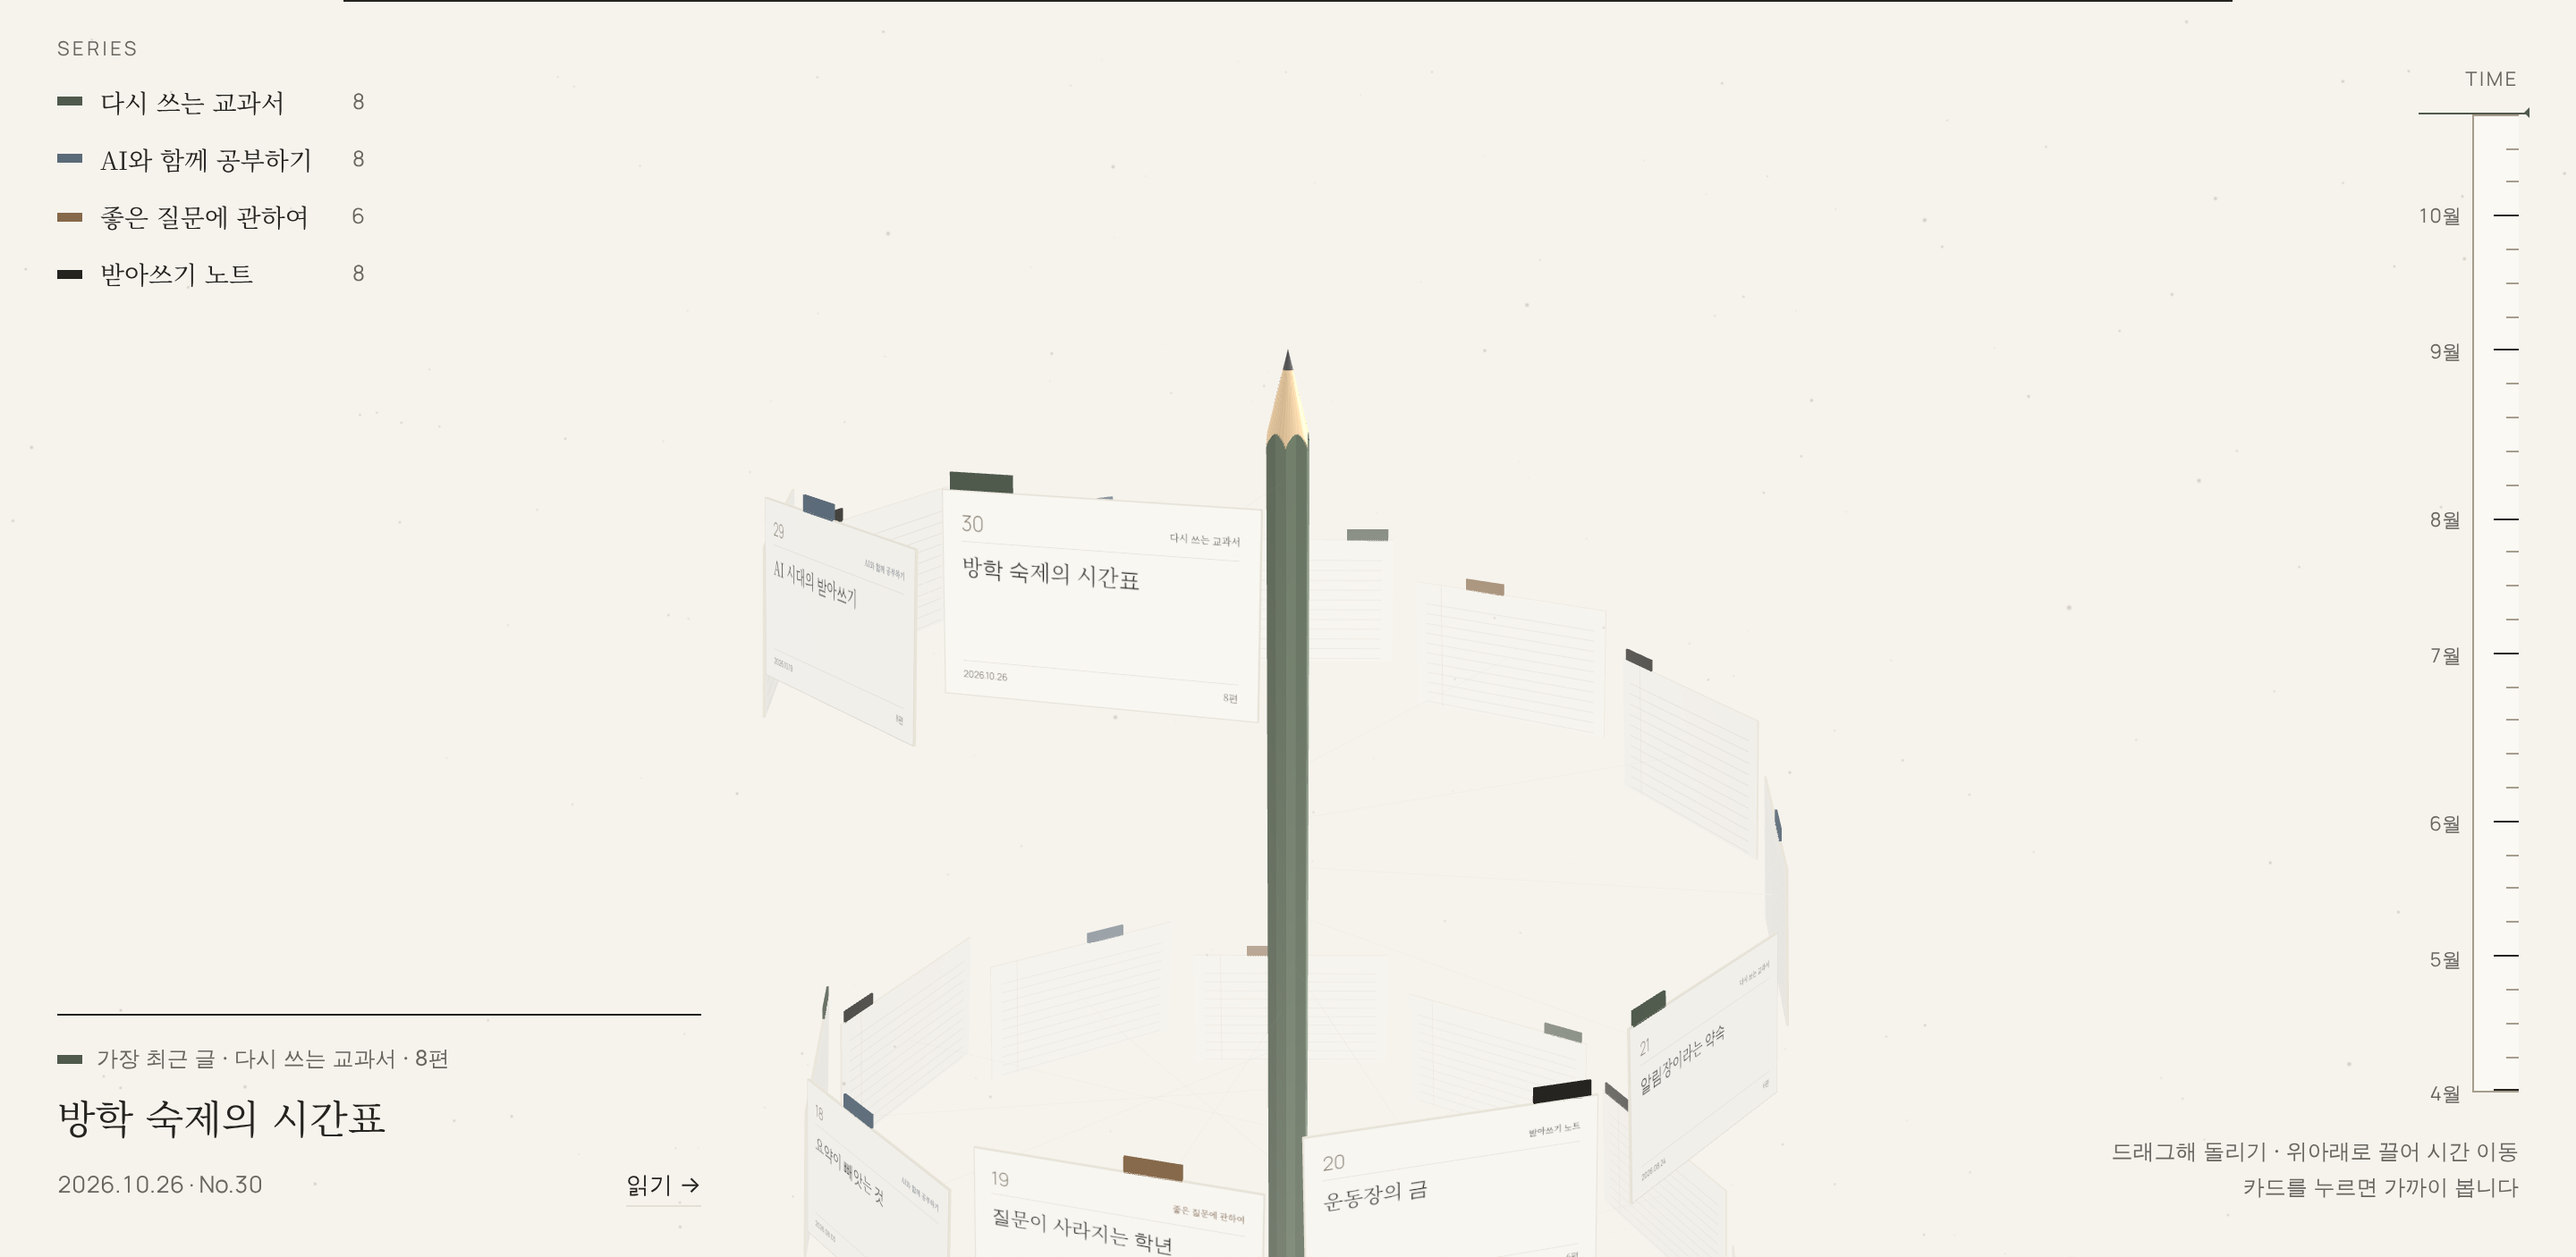
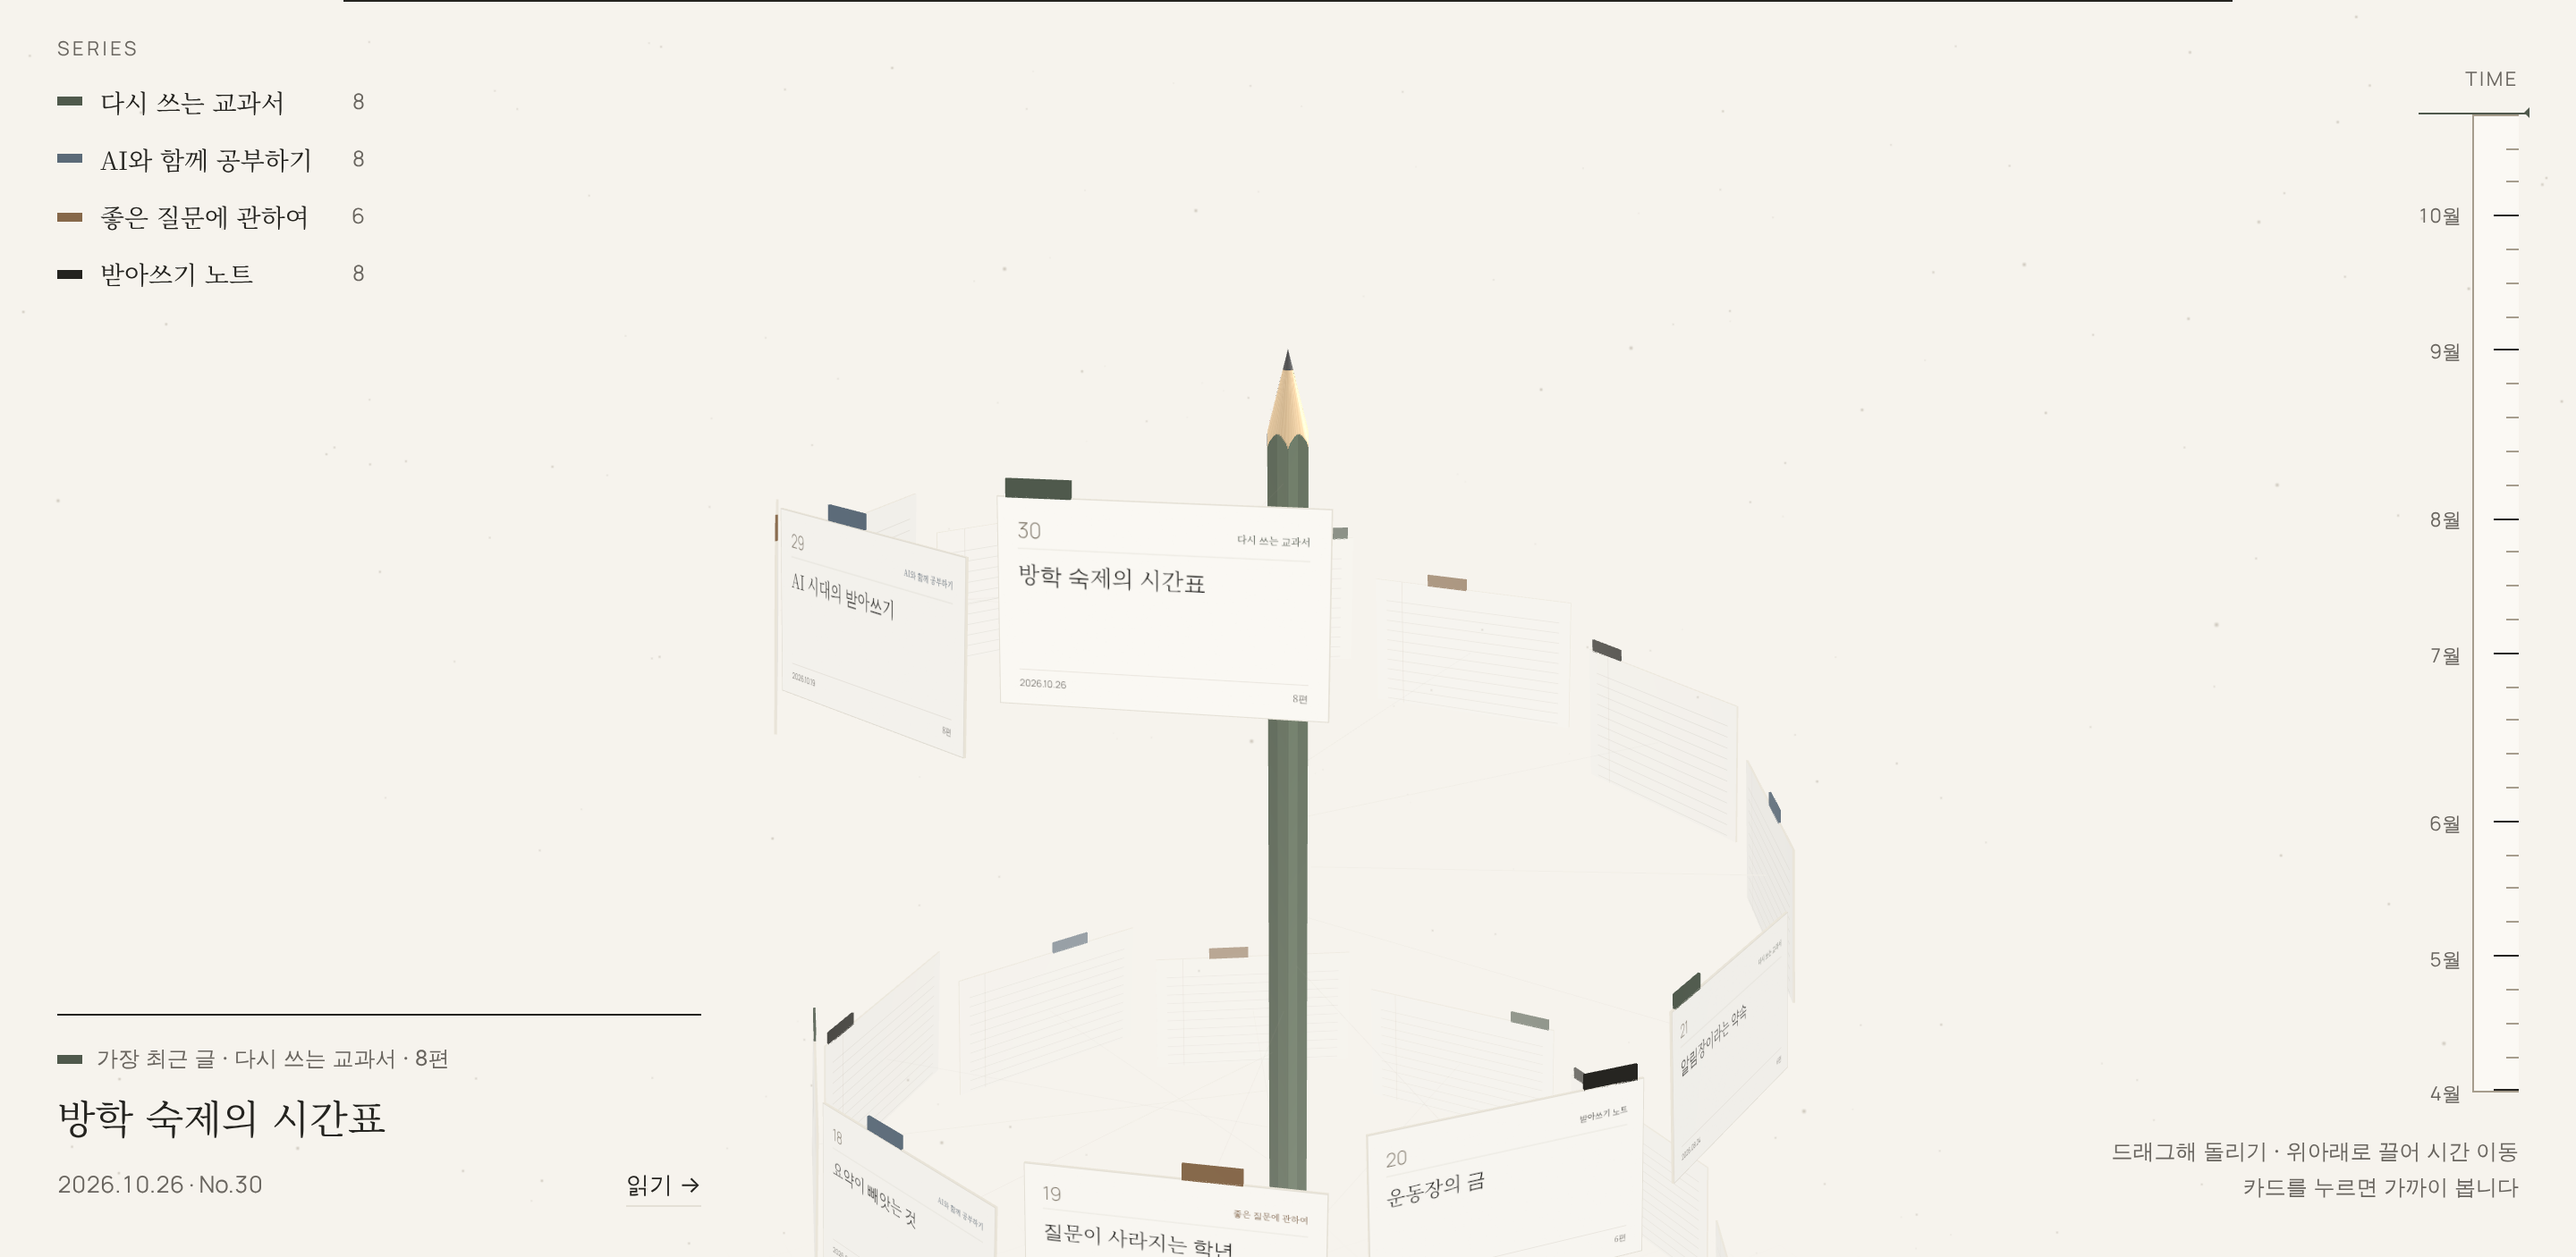
시안 D: 남은 평가 항목 반영(카드 그림 메모리, 화면 읽기, 휴대폰 위계)
Claude-Session: https://claude.ai/code/session_01MkK44uCViEpJkN2Hbai6tY

diff --git a/drafts/d-spiral.html b/drafts/d-spiral.html
@@ -154,7 +154,8 @@ footer b { font-weight: 500; color: var(--ink); }
 <div class="stage" id="stage" tabindex="0" aria-label="글 카드가 연필을 감고 쌓여 올라가는 3D 나선. 드래그로 돌리고, 위아래로 끌어 시간을 오르내립니다. 위아래 화살표로 글을 고를 수 있습니다.">
   <div class="legend" id="legend"><p>SERIES</p></div>
   <div class="ruler" id="ruler" aria-hidden="true"><span class="cap">TIME</span><div class="body"></div></div>
-  <div class="panel" id="panel" aria-live="polite"></div>
+  <div class="panel" id="panel"></div>
+  <p class="sr" id="announce" aria-live="polite"></p>
   <p class="hint">드래그해 돌리기 · 위아래로 끌어 시간 이동<br>카드를 누르면 가까이 봅니다</p>
   <div class="fallback" id="fallback" hidden>이 환경에서는 3D를 표시할 수 없습니다. 아래 ‘목록으로 보기’에서 글을 볼 수 있습니다.</div>
 </div>
@@ -264,10 +265,14 @@ const tex = (canvas) => { const t = new THREE.CanvasTexture(canvas); t.colorSpac
 const rand = (() => { let s = 1960; return () => ((s = (s * 16807) % 2147483647) / 2147483647); })();
 
 /* 카드 앞면: 번호, 시리즈, 제목, 날짜. 종이 섬유 결을 아주 옅게. */
-function frontTexture(p) {
+// 카드 그림은 1024×640 좌표로 그리고, 실제 크기(px)는 따로 정한다.
+// 평소: 데스크톱 640×400, 휴대폰 512×320. 고른 카드만 1024×640으로 바꿔 끼운다.
+const LO_W = matchMedia('(max-width: 720px)').matches ? 512 : 640;
+function frontTexture(p, px = LO_W) {
   const w = 1024, h = 640, cv = document.createElement('canvas');
-  cv.width = w; cv.height = h;
+  cv.width = px; cv.height = Math.round(px * 0.625);
   const g = cv.getContext('2d');
+  g.scale(px / w, px / w);
   g.fillStyle = C.sheet; g.fillRect(0, 0, w, h);
   for (let k = 0; k < 2200; k++) { g.fillStyle = `rgba(110,98,78,${rand() * 0.05})`; g.fillRect(rand() * w, rand() * h, 1 + rand() * 2.5, 1); }
   g.strokeStyle = C.linen; g.lineWidth = 3; g.strokeRect(1.5, 1.5, w - 3, h - 3);
@@ -308,6 +313,7 @@ const cards = POSTS.map((p) => {
   // 조명 대신 종이 그대로(MeshBasic). 깊이는 안개와 각도에 따른 옅은 음영으로만 준다.
   const edge = new THREE.MeshBasicMaterial({ color: '#E9E4D8', transparent: true });
   const front = new THREE.MeshBasicMaterial({ map: frontTexture(p), transparent: true });
+  front.userData.lo = front.map;
   const back = new THREE.MeshBasicMaterial({ map: backTex, transparent: true });
   const mesh = new THREE.Mesh(cardGeo, [edge, edge, edge, edge, front, back]);
   const tabMat = new THREE.MeshBasicMaterial({ color: SERIES[p.s].color, transparent: true });
@@ -483,6 +489,9 @@ function fit() {
   // 휴대폰처럼 좁은 화면: 나선 양옆이 조금 잘리더라도 앞쪽 카드가 화면 폭의 절반 가까이 되게.
   const narrow = camera.aspect < 0.8;
   st.cardScale = narrow ? 1.15 : 1;
+  if (narrow && !st.narrow) st.az = ((N - 1) * (Math.PI * 2 / TURN)) % (Math.PI * 2); // 가장 최근 카드가 정면
+  st.narrow = narrow;
+  pencil.scale.set(narrow ? 0.7 : 1, 1, narrow ? 0.7 : 1);
   st.baseDist = narrow ? (R - 0.5) / Math.tan(hh) : Math.max(11.5, (R + 1.5) / Math.tan(hh));
 }
 fit(); new ResizeObserver(fit).observe(stage);
@@ -507,9 +516,18 @@ legend.addEventListener('click', (e) => {
   legend.querySelectorAll('button').forEach((x) => x.setAttribute('aria-pressed', String(+x.dataset.k === st.filter)));
 });
 
+let hiCard = -1;
+function sharpen(i) { // 고른 카드만 선명한 그림으로, 이전 것은 원래대로 돌리고 메모리를 비운다
+  if (hiCard >= 0 && hiCard !== i) { const m = cards[hiCard].mats[1]; m.map.dispose(); m.map = m.userData.lo; m.needsUpdate = true; hiCard = -1; }
+  if (i >= 0 && hiCard !== i) { const m = cards[i].mats[1]; m.map = frontTexture(cards[i].p, 1024); m.needsUpdate = true; hiCard = i; }
+}
+const announce = document.getElementById('announce');
 function select(i) {
   st.sel = i;
-  if (i < 0) { showPanel(null); return; }
+  sharpen(i);
+  ruler.hidden = st.mode === 1 || (st.narrow && i >= 0); // 휴대폰에서 카드를 고른 동안은 자를 숨긴다
+  if (i < 0) { showPanel(null); announce.textContent = ''; return; }
+  { const p = POSTS[i]; announce.textContent = `${SERIES[p.s].name} ${p.ep}편, ${p.title}, ${p.label}`; }
   const c = cards[i], k = st.mode;
   st.azT = k ? c.a1 : c.a0;
   st.yT = k ? c.y1 : c.y0;
@@ -589,10 +607,10 @@ function frame(now) {
   // 카메라
   const idle = !st.dragging && now - st.lastInput > 2600;
   if (st.azT !== null) st.az = lerpAngle(st.az, st.azT, damp(0.07, dt));
-  else if (!st.dragging) { st.az += st.azV * dt; st.azV *= Math.exp(-5 * dt); if (idle && !reduced && st.sel < 0 && !st.over) st.az += dt * 0.07; }
+  else if (!st.dragging) { st.az += st.azV * dt; st.azV *= Math.exp(-5 * dt); if (idle && !reduced && st.sel < 0 && !st.over && !st.narrow) st.az += dt * 0.07; }
   if (st.mode === 1 && st.sel < 0) st.yT = 3.2;
   st.y += (st.yT - st.y) * (reduced ? 1 : damp(0.07, dt));
-  const distT = st.baseDist + (st.mode ? 7 : 0) - (st.sel >= 0 ? 4.2 : 0);
+  const distT = st.baseDist + (st.mode ? 7 : 0) - (st.sel >= 0 ? (st.narrow ? 2 : 4.2) : 0); // 휴대폰은 카드가 화면 폭의 약 70%가 되는 데서 멈춘다
   st.dist += (distT - st.dist) * damp(0.06, dt);
   const elevT = st.mode ? 0.24 : (st.sel >= 0 ? 0.05 : 0.2);
   st.elev += (elevT - st.elev) * damp(0.06, dt);
@@ -628,7 +646,7 @@ function frame(now) {
     const ia = i * 6;
     v3.set(Math.sin(a) * (r + push - 0.02), y, Math.cos(a) * (r + push - 0.02));
     tPos[ia] = v3.x; tPos[ia + 1] = v3.y; tPos[ia + 2] = v3.z;
-    tPos[ia + 3] = Math.sin(a) * 0.14; tPos[ia + 4] = y; tPos[ia + 5] = Math.cos(a) * 0.14;
+    const pr = 0.14 * pencil.scale.x; tPos[ia + 3] = Math.sin(a) * pr; tPos[ia + 4] = y; tPos[ia + 5] = Math.cos(a) * pr;
     const focus = st.sel >= 0 ? st.sel : st.hover;
     const tie = focus >= 0 ? (cards[focus].p.s === c.p.s ? (i === focus ? 0.75 : 0.4) : 0.02) : (st.filter >= 0 ? (st.filter === c.p.s ? 0.35 : 0) : 0.07);
     c.tie = (c.tie ?? 0.07) + (tie - (c.tie ?? 0.07)) * damp(0.12, dt);

diff --git a/drafts/d-spiral.local.html b/drafts/d-spiral.local.html
@@ -156,7 +156,8 @@ footer b { font-weight: 500; color: var(--ink); }
 <div class="stage" id="stage" tabindex="0" aria-label="글 카드가 연필을 감고 쌓여 올라가는 3D 나선. 드래그로 돌리고, 위아래로 끌어 시간을 오르내립니다. 위아래 화살표로 글을 고를 수 있습니다.">
   <div class="legend" id="legend"><p>SERIES</p></div>
   <div class="ruler" id="ruler" aria-hidden="true"><span class="cap">TIME</span><div class="body"></div></div>
-  <div class="panel" id="panel" aria-live="polite"></div>
+  <div class="panel" id="panel"></div>
+  <p class="sr" id="announce" aria-live="polite"></p>
   <p class="hint">드래그해 돌리기 · 위아래로 끌어 시간 이동<br>카드를 누르면 가까이 봅니다</p>
   <div class="fallback" id="fallback" hidden>이 환경에서는 3D를 표시할 수 없습니다. 아래 ‘목록으로 보기’에서 글을 볼 수 있습니다.</div>
 </div>
@@ -266,10 +267,14 @@ const tex = (canvas) => { const t = new THREE.CanvasTexture(canvas); t.colorSpac
 const rand = (() => { let s = 1960; return () => ((s = (s * 16807) % 2147483647) / 2147483647); })();
 
 /* 카드 앞면: 번호, 시리즈, 제목, 날짜. 종이 섬유 결을 아주 옅게. */
-function frontTexture(p) {
+// 카드 그림은 1024×640 좌표로 그리고, 실제 크기(px)는 따로 정한다.
+// 평소: 데스크톱 640×400, 휴대폰 512×320. 고른 카드만 1024×640으로 바꿔 끼운다.
+const LO_W = matchMedia('(max-width: 720px)').matches ? 512 : 640;
+function frontTexture(p, px = LO_W) {
   const w = 1024, h = 640, cv = document.createElement('canvas');
-  cv.width = w; cv.height = h;
+  cv.width = px; cv.height = Math.round(px * 0.625);
   const g = cv.getContext('2d');
+  g.scale(px / w, px / w);
   g.fillStyle = C.sheet; g.fillRect(0, 0, w, h);
   for (let k = 0; k < 2200; k++) { g.fillStyle = `rgba(110,98,78,${rand() * 0.05})`; g.fillRect(rand() * w, rand() * h, 1 + rand() * 2.5, 1); }
   g.strokeStyle = C.linen; g.lineWidth = 3; g.strokeRect(1.5, 1.5, w - 3, h - 3);
@@ -310,6 +315,7 @@ const cards = POSTS.map((p) => {
   // 조명 대신 종이 그대로(MeshBasic). 깊이는 안개와 각도에 따른 옅은 음영으로만 준다.
   const edge = new THREE.MeshBasicMaterial({ color: '#E9E4D8', transparent: true });
   const front = new THREE.MeshBasicMaterial({ map: frontTexture(p), transparent: true });
+  front.userData.lo = front.map;
   const back = new THREE.MeshBasicMaterial({ map: backTex, transparent: true });
   const mesh = new THREE.Mesh(cardGeo, [edge, edge, edge, edge, front, back]);
   const tabMat = new THREE.MeshBasicMaterial({ color: SERIES[p.s].color, transparent: true });
@@ -485,6 +491,9 @@ function fit() {
   // 휴대폰처럼 좁은 화면: 나선 양옆이 조금 잘리더라도 앞쪽 카드가 화면 폭의 절반 가까이 되게.
   const narrow = camera.aspect < 0.8;
   st.cardScale = narrow ? 1.15 : 1;
+  if (narrow && !st.narrow) st.az = ((N - 1) * (Math.PI * 2 / TURN)) % (Math.PI * 2); // 가장 최근 카드가 정면
+  st.narrow = narrow;
+  pencil.scale.set(narrow ? 0.7 : 1, 1, narrow ? 0.7 : 1);
   st.baseDist = narrow ? (R - 0.5) / Math.tan(hh) : Math.max(11.5, (R + 1.5) / Math.tan(hh));
 }
 fit(); new ResizeObserver(fit).observe(stage);
@@ -509,9 +518,18 @@ legend.addEventListener('click', (e) => {
   legend.querySelectorAll('button').forEach((x) => x.setAttribute('aria-pressed', String(+x.dataset.k === st.filter)));
 });
 
+let hiCard = -1;
+function sharpen(i) { // 고른 카드만 선명한 그림으로, 이전 것은 원래대로 돌리고 메모리를 비운다
+  if (hiCard >= 0 && hiCard !== i) { const m = cards[hiCard].mats[1]; m.map.dispose(); m.map = m.userData.lo; m.needsUpdate = true; hiCard = -1; }
+  if (i >= 0 && hiCard !== i) { const m = cards[i].mats[1]; m.map = frontTexture(cards[i].p, 1024); m.needsUpdate = true; hiCard = i; }
+}
+const announce = document.getElementById('announce');
 function select(i) {
   st.sel = i;
-  if (i < 0) { showPanel(null); return; }
+  sharpen(i);
+  ruler.hidden = st.mode === 1 || (st.narrow && i >= 0); // 휴대폰에서 카드를 고른 동안은 자를 숨긴다
+  if (i < 0) { showPanel(null); announce.textContent = ''; return; }
+  { const p = POSTS[i]; announce.textContent = `${SERIES[p.s].name} ${p.ep}편, ${p.title}, ${p.label}`; }
   const c = cards[i], k = st.mode;
   st.azT = k ? c.a1 : c.a0;
   st.yT = k ? c.y1 : c.y0;
@@ -591,10 +609,10 @@ function frame(now) {
   // 카메라
   const idle = !st.dragging && now - st.lastInput > 2600;
   if (st.azT !== null) st.az = lerpAngle(st.az, st.azT, damp(0.07, dt));
-  else if (!st.dragging) { st.az += st.azV * dt; st.azV *= Math.exp(-5 * dt); if (idle && !reduced && st.sel < 0 && !st.over) st.az += dt * 0.07; }
+  else if (!st.dragging) { st.az += st.azV * dt; st.azV *= Math.exp(-5 * dt); if (idle && !reduced && st.sel < 0 && !st.over && !st.narrow) st.az += dt * 0.07; }
   if (st.mode === 1 && st.sel < 0) st.yT = 3.2;
   st.y += (st.yT - st.y) * (reduced ? 1 : damp(0.07, dt));
-  const distT = st.baseDist + (st.mode ? 7 : 0) - (st.sel >= 0 ? 4.2 : 0);
+  const distT = st.baseDist + (st.mode ? 7 : 0) - (st.sel >= 0 ? (st.narrow ? 2 : 4.2) : 0); // 휴대폰은 카드가 화면 폭의 약 70%가 되는 데서 멈춘다
   st.dist += (distT - st.dist) * damp(0.06, dt);
   const elevT = st.mode ? 0.24 : (st.sel >= 0 ? 0.05 : 0.2);
   st.elev += (elevT - st.elev) * damp(0.06, dt);
@@ -630,7 +648,7 @@ function frame(now) {
     const ia = i * 6;
     v3.set(Math.sin(a) * (r + push - 0.02), y, Math.cos(a) * (r + push - 0.02));
     tPos[ia] = v3.x; tPos[ia + 1] = v3.y; tPos[ia + 2] = v3.z;
-    tPos[ia + 3] = Math.sin(a) * 0.14; tPos[ia + 4] = y; tPos[ia + 5] = Math.cos(a) * 0.14;
+    const pr = 0.14 * pencil.scale.x; tPos[ia + 3] = Math.sin(a) * pr; tPos[ia + 4] = y; tPos[ia + 5] = Math.cos(a) * pr;
     const focus = st.sel >= 0 ? st.sel : st.hover;
     const tie = focus >= 0 ? (cards[focus].p.s === c.p.s ? (i === focus ? 0.75 : 0.4) : 0.02) : (st.filter >= 0 ? (st.filter === c.p.s ? 0.35 : 0) : 0.07);
     c.tie = (c.tie ?? 0.07) + (tie - (c.tie ?? 0.07)) * damp(0.12, dt);

diff --git a/docs/REVIEW-2026-11-19.md b/docs/REVIEW-2026-11-19.md
@@ -69,3 +69,13 @@
 
 함께 고친 것: 마우스가 무대 위에 있으면 자동 회전 멈춤(8번), 첫 ↓ 키가 바로 이전 글로 감(10번).
 남은 것: 6 텍스처 메모리, 7 화면 읽기 소음, 9 모바일 위계(연필이 가운데를 크게 차지).
+
+## 반영 결과 (같은 날, 남은 항목)
+
+| # | 조치 | 확인 |
+|---|---|---|
+| 6 | 카드 그림을 평소 낮은 해상도로(데스크톱 640×400, 휴대폰 512×320), 고른 카드만 1024×640으로 바꿔 끼우고 이전 것은 메모리에서 비움 | 약 100MB → 데스크톱 39MB, 휴대폰 25MB(+ 고른 카드 3.3MB) |
+| 7 | 패널의 `aria-live` 제거. 숨은 알림 영역을 따로 두고 카드를 '고를 때만' "시리즈 n편, 제목, 날짜"를 읽음. 고르기를 풀면 비움 | Playwright로 확인 |
+| 9 | 휴대폰: 연필 굵기 70%, 첫 화면에서 가장 최근 카드가 정면, 자동 회전 끔(손으로만 돌림), 카드를 고르면 화면 폭의 약 70%까지만 다가가고 자를 숨김 | 390 스크린샷 |
+
+이로써 평가 1~10번을 모두 반영했다.
